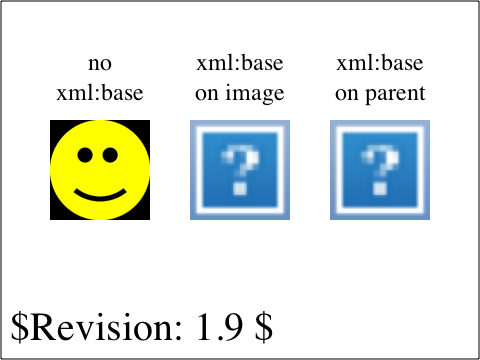
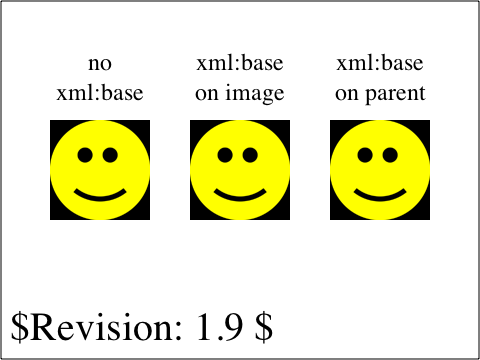
Reviewed by Darin.
http://bugs.webkit.org/show_bug.cgi?id=12579
        WebKit fails SVG xml:base test

        Implement DOM3 properties baseURI and documentURI to fix
        the testcase in bug 12579.

git-svn-id: https://svn.webkit.org/repository/webkit/trunk@20028 268f45cc-cd09-0410-ab3c-d52691b4dbfc

Changed region(s): [[0.375, 0.3361, 0.625, 0.6111], [0.6875, 0.3361, 0.9062, 0.6111]]

diff --git a/WebCore/dom/Element.cpp b/WebCore/dom/Element.cpp
@@ -34,16 +34,19 @@
 #include "Frame.h"
 #include "FrameView.h"
 #include "HTMLNames.h"
+#include "KURL.h"
 #include "NamedAttrMap.h"
 #include "Page.h"
 #include "RenderBlock.h"
 #include "SelectionController.h"
 #include "TextIterator.h"
 #include "TextStream.h"
+#include "XMLNames.h"
 
 namespace WebCore {
 
 using namespace HTMLNames;
+using namespace XMLNames;
 
 Element::Element(const QualifiedName& qName, Document *doc)
     : ContainerNode(doc)
@@ -462,6 +465,20 @@ void Element::setPrefix(const AtomicString &_prefix, ExceptionCode& ec)
         return;
 
     m_tagName.setPrefix(_prefix);
+}
+
+String Element::baseURI() const
+{
+    KURL xmlbase(getAttribute(baseAttr).deprecatedString());
+
+    if (!xmlbase.protocol().isEmpty())
+        return xmlbase.url();
+
+    Node* parent = parentNode();
+    if (parent)
+        return KURL(parent->baseURI().deprecatedString(), xmlbase.url()).url();
+
+    return xmlbase.url();
 }
 
 Node* Element::insertAdjacentElement(const String& where, Node* newChild, int& exception)

diff --git a/WebCore/ksvg2/svg/SVGImageElement.cpp b/WebCore/ksvg2/svg/SVGImageElement.cpp
@@ -90,7 +90,7 @@ void SVGImageElement::parseMappedAttribute(MappedAttribute *attr)
         if (SVGExternalResourcesRequired::parseMappedAttribute(attr))
             return;
         if (SVGURIReference::parseMappedAttribute(attr)) {
-            if (attr->name().matches(XLinkNames::hrefAttr))
+            if (attr->name().matches(XLinkNames::hrefAttr) && attached())
                 m_imageLoader.updateFromElement();
             return;
         }
@@ -119,6 +119,7 @@ bool SVGImageElement::haveLoadedRequiredResources()
 void SVGImageElement::attach()
 {
     SVGStyledTransformableElement::attach();
+    m_imageLoader.updateFromElement();
     if (RenderSVGImage* imageObj = static_cast<RenderSVGImage*>(renderer()))
         imageObj->setCachedImage(m_imageLoader.image());
 }

diff --git a/WebCore/bindings/js/kjs_dom.cpp b/WebCore/bindings/js/kjs_dom.cpp
@@ -187,6 +187,7 @@ bool DOMNode::toBoolean(ExecState* ) const
   previousSibling  DOMNode::PreviousSibling DontDelete|ReadOnly
   nextSibling   DOMNode::NextSibling    DontDelete|ReadOnly
   attributes    DOMNode::Attributes     DontDelete|ReadOnly
+  baseURI       DOMNode::BaseURI        DontDelete|ReadOnly
   namespaceURI  DOMNode::NamespaceURI   DontDelete|ReadOnly
 # DOM2
   prefix        DOMNode::Prefix         DontDelete
@@ -226,6 +227,8 @@ JSValue* DOMNode::getValueProperty(ExecState* exec, int token) const
     return toJS(exec,node.nextSibling());
   case Attributes:
     return toJS(exec,node.attributes());
+  case BaseURI:
+    return jsStringOrNull(node.baseURI());
   case NamespaceURI:
     return jsStringOrNull(node.namespaceURI());
   case Prefix:

diff --git a/WebCore/ksvg2/misc/SVGImageLoader.cpp b/WebCore/ksvg2/misc/SVGImageLoader.cpp
@@ -50,8 +50,14 @@ void SVGImageLoader::updateFromElement()
     WebCore::Document* doc = imageElement->ownerDocument();
     
     CachedImage *newImage = 0;
-    if (!imageElement->href().isEmpty())
-        newImage = doc->docLoader()->requestImage(imageElement->href());
+    if (!imageElement->href().isEmpty()) {
+        DeprecatedString uri = imageElement->baseURI().deprecatedString();;
+        if (!uri.isEmpty())
+            uri = KURL(uri, imageElement->href().deprecatedString()).url();
+        else
+            uri = imageElement->href().deprecatedString();
+        newImage = doc->docLoader()->requestImage(uri);
+    }
 
     CachedImage *oldImage = image();
     if (newImage != oldImage) {

diff --git a/WebCore/dom/Node.cpp b/WebCore/dom/Node.cpp
@@ -33,11 +33,13 @@
 #include "ExceptionCode.h"
 #include "Frame.h"
 #include "HTMLNames.h"
+#include "KURL.h"
 #include "Logging.h"
 #include "NamedAttrMap.h"
 #include "RenderObject.h"
 #include "Text.h"
 #include "TextStream.h"
+#include "XMLNames.h"
 #include "htmlediting.h"
 #include "kjs_binding.h"
 
@@ -1215,6 +1217,15 @@ bool Node::hasAttributes() const
 NamedAttrMap *Node::attributes() const
 {
     return 0;
+}
+
+String Node::baseURI() const
+{
+    Node* parent = parentNode();
+    if (parent)
+        return parent->baseURI();
+
+    return String();
 }
 
 bool Node::isEqualNode(Node *other) const

diff --git a/WebCore/bindings/js/kjs_domnode.h b/WebCore/bindings/js/kjs_domnode.h
@@ -49,7 +49,7 @@ public:
     virtual UString toString(ExecState*) const;
     
     enum { NodeName, NodeValue, NodeType, ParentNode, ParentElement,
-        ChildNodes, FirstChild, LastChild, PreviousSibling, NextSibling,
+        ChildNodes, FirstChild, LastChild, PreviousSibling, NextSibling, BaseURI,
         Attributes, NamespaceURI, Prefix, LocalName, OwnerDocument, InsertBefore,
         ReplaceChild, RemoveChild, AppendChild, HasAttributes, HasChildNodes,
         CloneNode, Normalize, IsSupported, Contains, IsSameNode, IsEqualNode, TextContent,

diff --git a/WebCore/dom/Element.h b/WebCore/dom/Element.h
@@ -111,7 +111,9 @@ public:
     virtual const AtomicString& prefix() const { return m_tagName.prefix(); }
     virtual void setPrefix(const AtomicString &_prefix, ExceptionCode&);
     virtual const AtomicString& namespaceURI() const { return m_tagName.namespaceURI(); }
-    
+
+    virtual String baseURI() const;
+
     // DOM methods overridden from  parent classes
     virtual NodeType nodeType() const;
     virtual PassRefPtr<Node> cloneNode(bool deep);

diff --git a/WebCore/dom/Document.cpp b/WebCore/dom/Document.cpp
@@ -766,6 +766,21 @@ void Document::setXMLStandalone(bool standalone, ExceptionCode& ec)
     m_xmlStandalone = standalone;
 }
 
+String Document::documentURI() const
+{
+    return m_baseURL;
+}
+
+void Document::setDocumentURI(const String &uri)
+{
+    m_baseURL = uri.deprecatedString();
+}
+
+String Document::baseURI() const
+{
+    return documentURI();
+}
+
 Element* Document::elementFromPoint(int x, int y) const
 {
     if (!renderer())

diff --git a/WebCore/dom/Node.h b/WebCore/dom/Node.h
@@ -101,6 +101,8 @@ public:
     virtual bool hasAttributes() const;
     virtual NamedAttrMap* attributes() const;
 
+    virtual String baseURI() const;
+
     // These should all actually return a node, but this is only important for language bindings,
     // which will already know and hold a ref on the right node to return. Returning bool allows
     // these methods to be more efficient since they don't need to return a ref

diff --git a/WebCore/dom/Document.h b/WebCore/dom/Document.h
@@ -193,6 +193,11 @@ public:
     void setXMLVersion(const String&, ExceptionCode&);
     void setXMLStandalone(bool, ExceptionCode&);
 
+    String documentURI() const;
+    void setDocumentURI(const String&);
+
+    virtual String baseURI() const;
+
     PassRefPtr<Node> adoptNode(PassRefPtr<Node> source, ExceptionCode&);
     
     PassRefPtr<NameNodeList> getElementsByName(const String& elementName);

diff --git a/WebCore/dom/DocumentType.h b/WebCore/dom/DocumentType.h
@@ -48,6 +48,8 @@ public:
     String systemId() const { return m_systemId; }
     String internalSubset() const { return m_subset; }
 
+    virtual String baseURI() const;
+
     // Other methods (not part of DOM)
     DOMImplementation *implementation() const { return m_implementation.get(); }
 

diff --git a/WebCore/dom/DocumentType.cpp b/WebCore/dom/DocumentType.cpp
@@ -74,6 +74,11 @@ String DocumentType::toString() const
     return result;
 }
 
+String DocumentType::baseURI() const
+{
+    return String();
+}
+
 String DocumentType::nodeName() const
 {
     return name();
